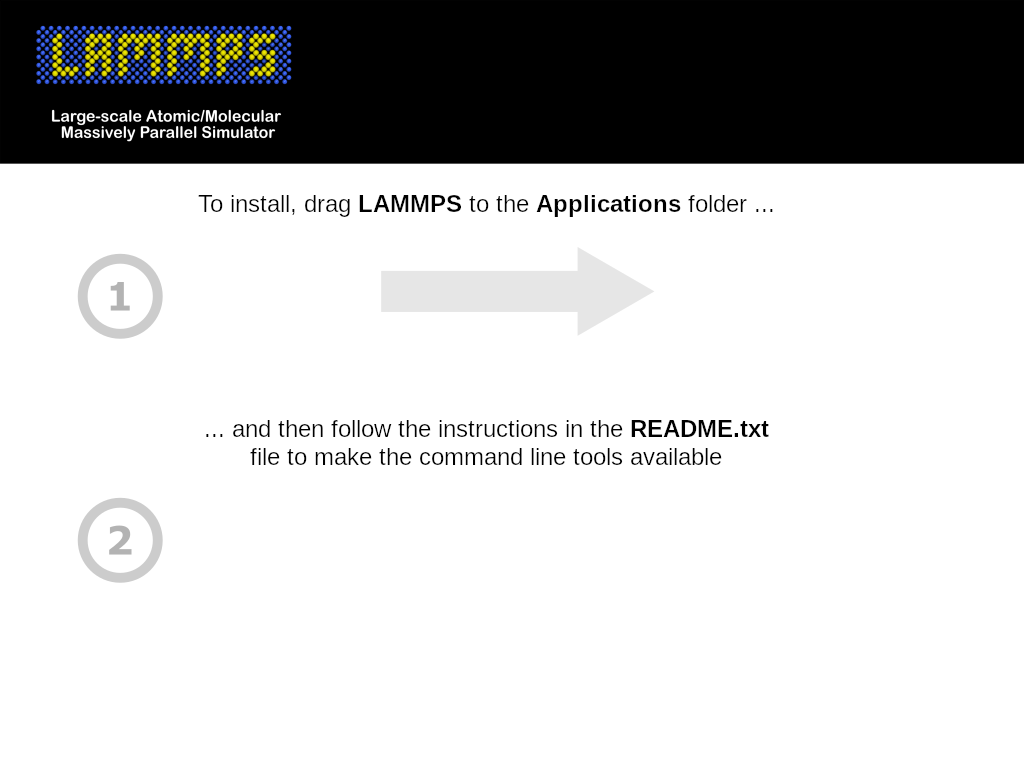
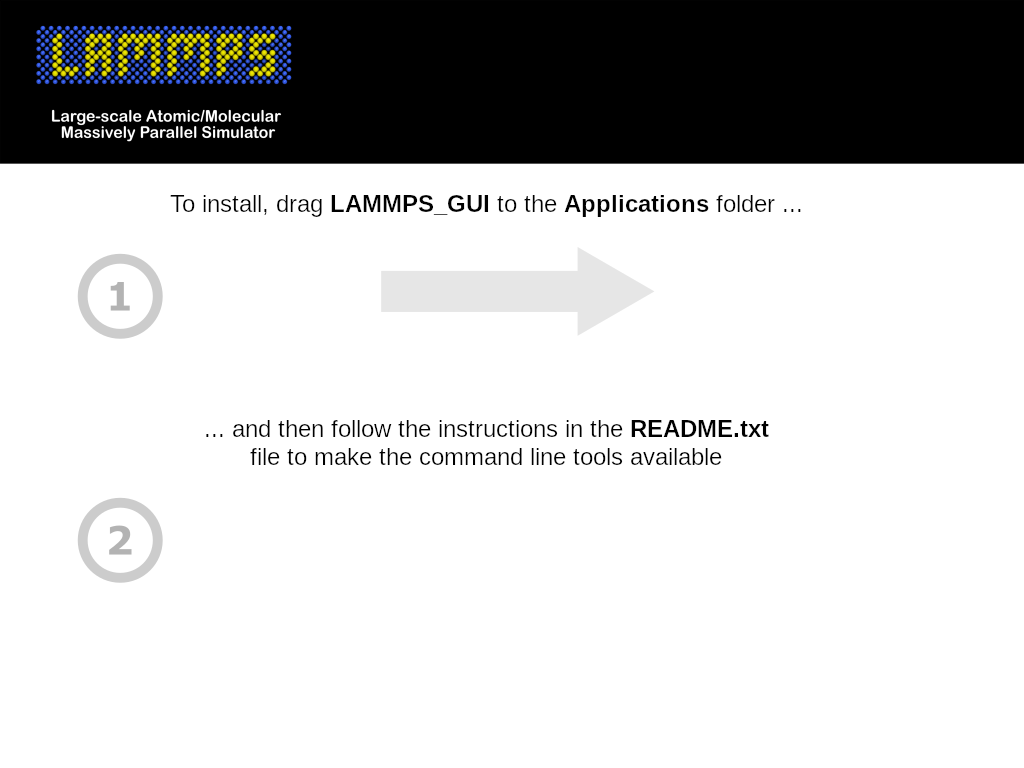
update LAMMPS GUI bundling for macOS

Changed region(s): [[0.1562, 0.25, 0.75, 0.2812]]

diff --git a/tools/lammps-gui/slideshow.cpp b/tools/lammps-gui/slideshow.cpp
@@ -149,8 +149,6 @@ void SlideShow::loadImage(int idx)
     do {
         QImageReader reader(imagefiles[idx]);
         reader.setAutoTransform(true);
-        if (!reader.canRead())
-            fprintf(stderr, "cannot read file %s\n", imagefiles[idx].toStdString().c_str());
         const QImage newImage = reader.read();
 
         // There was an error reading the image file. Try reading the previous image instead.
